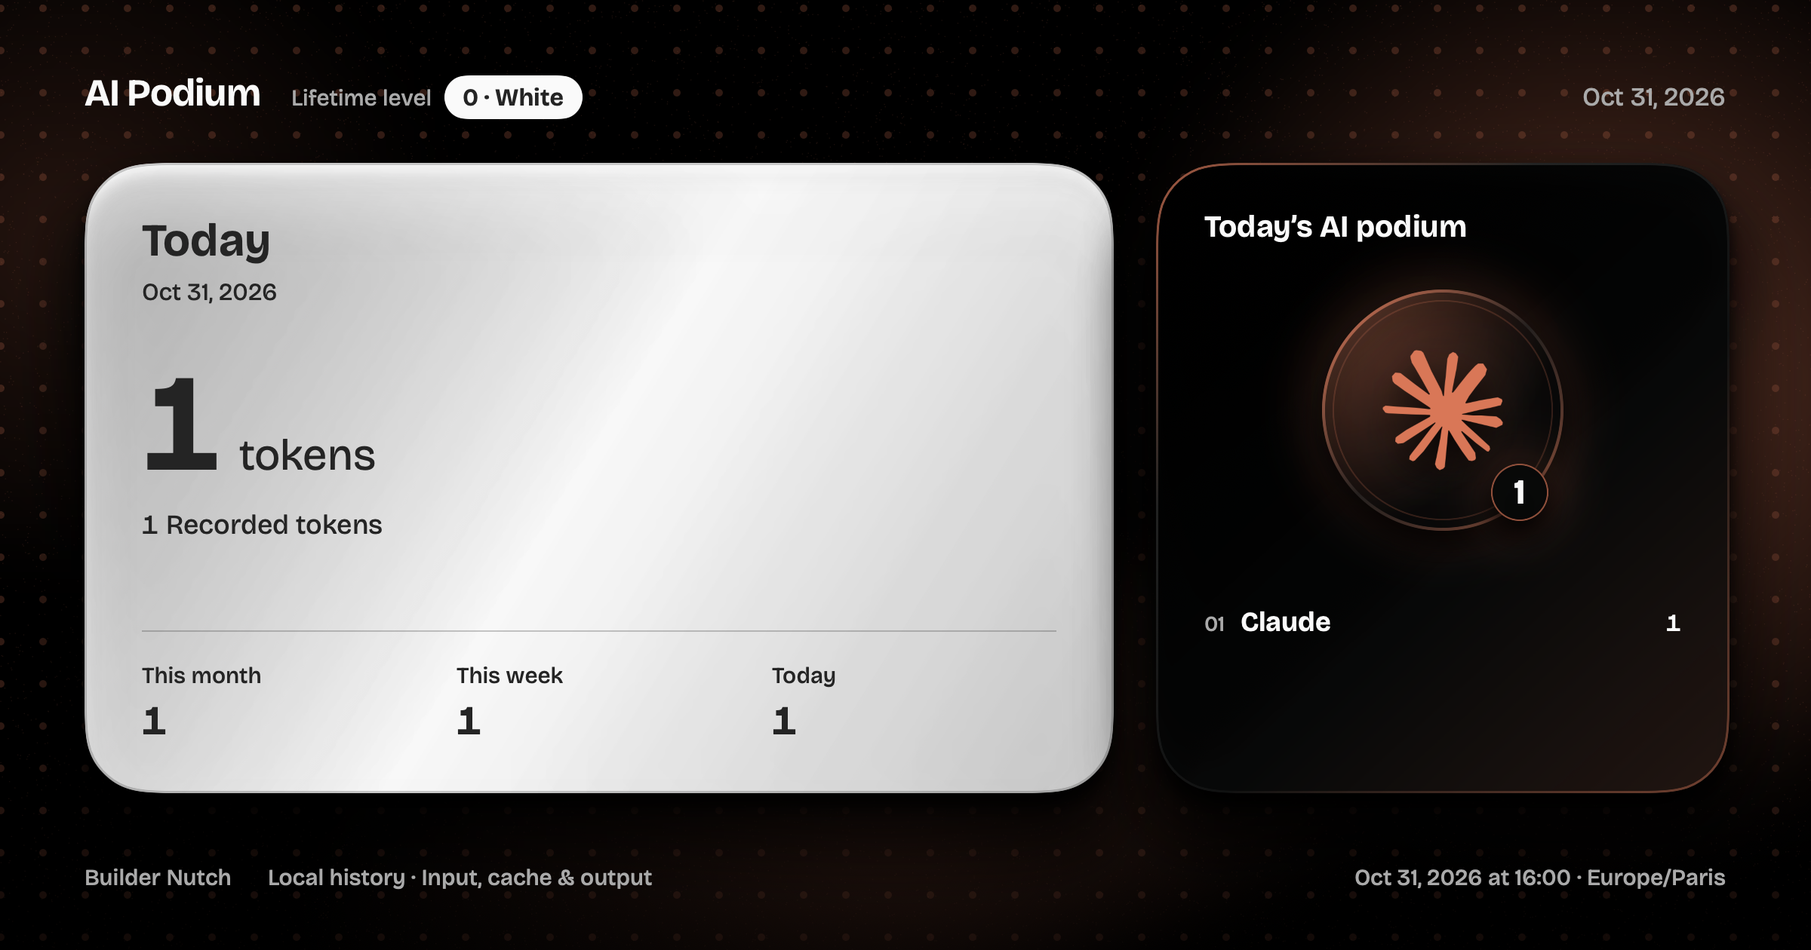
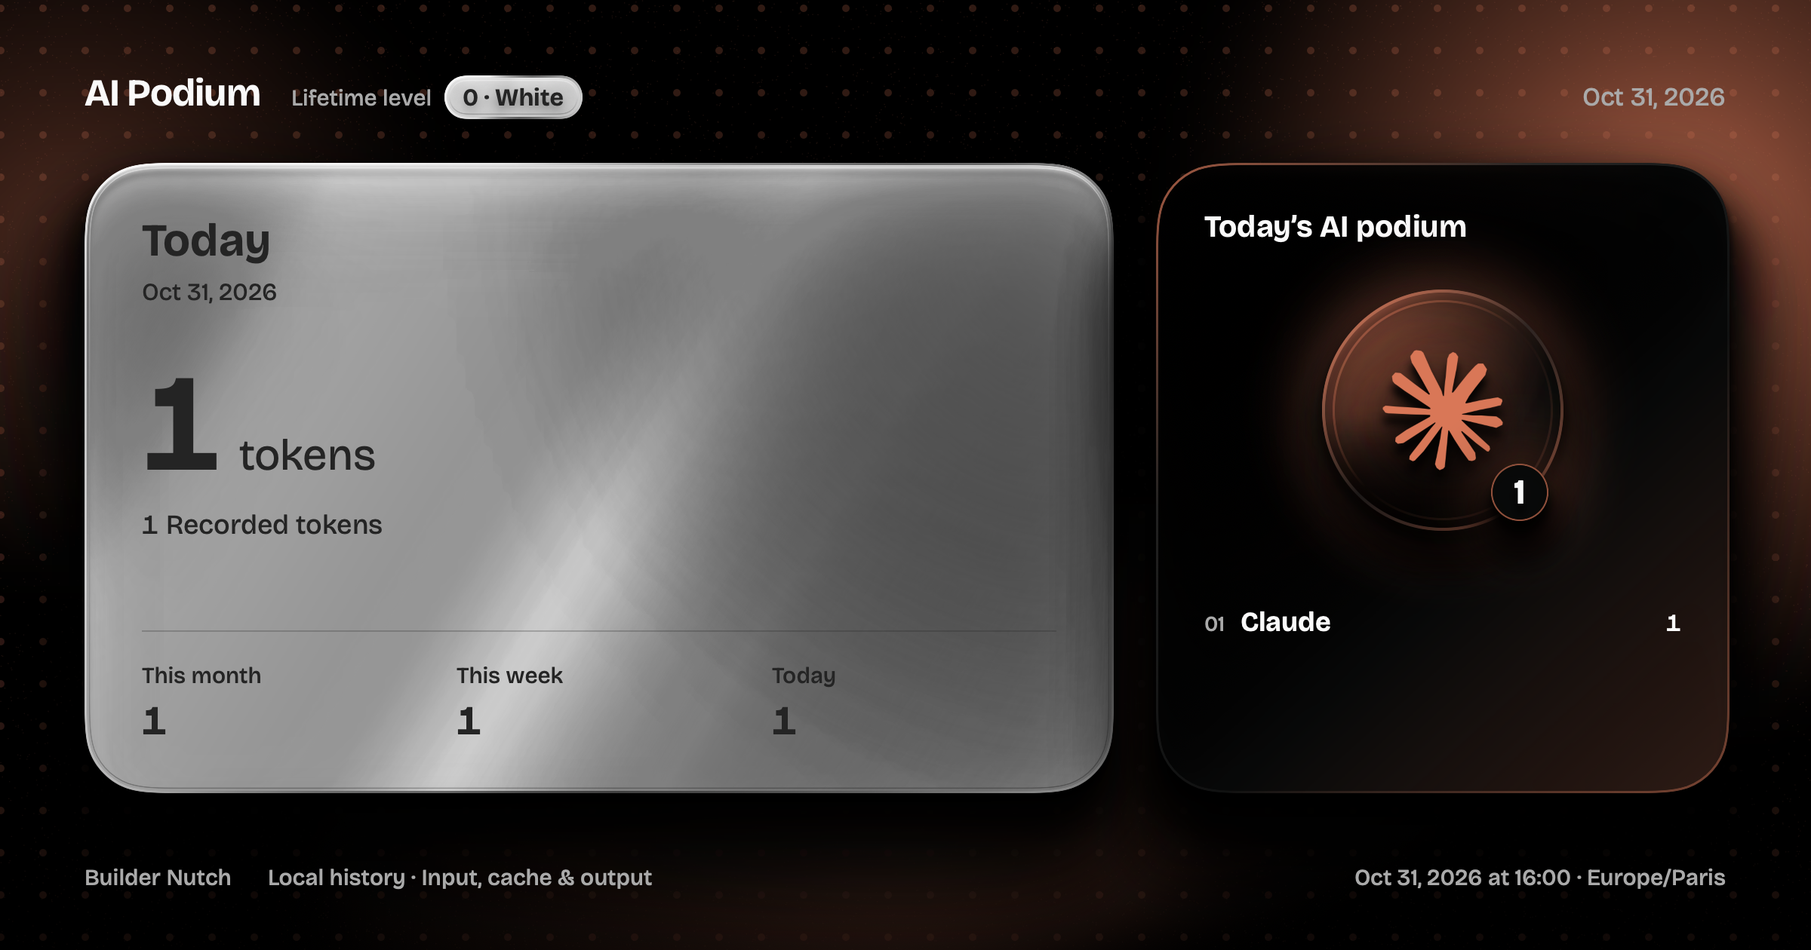
feat: give AI Podium richer material depth

diff --git a/Sources/Insights/UsageShareCard.swift b/Sources/Insights/UsageShareCard.swift
@@ -25,7 +25,8 @@ struct UsageShareCard: View {
                         .font(AppTheme.font(size: 16, weightValue: 650))
                         .padding(.horizontal, 12).padding(.vertical, 5)
                         .foregroundStyle(tier.foreground)
-                        .background(tier.surface, in: Capsule())
+                        .background(UsagePodiumFinish(tier: tier, radius: 100))
+                        .shadow(color: .black.opacity(0.5), radius: 4, y: 3)
                 }
                 Spacer()
                 Text(date(snapshot.today, template: "d MMM yyyy"))
@@ -107,18 +108,10 @@ struct UsageShareCard: View {
         .foregroundStyle(statisticsInk)
         .background {
             if let tier = snapshot.podiumTier {
-                RoundedRectangle(cornerRadius: 44, style: .continuous)
-                    .fill(tier.surface)
-                    .overlay(RoundedRectangle(cornerRadius: 44, style: .continuous)
-                        .fill(LinearGradient(stops: [
-                            .init(color: .white.opacity(tier.rawValue <= 4 ? 0.22 : 0.05), location: 0),
-                            .init(color: .clear, location: 0.48),
-                            .init(color: .black.opacity(0.08), location: 1)
-                        ], startPoint: .topLeading, endPoint: .bottomTrailing)))
-                    .overlay(RoundedRectangle(cornerRadius: 44, style: .continuous)
-                        .strokeBorder(tier.foreground.opacity(0.22), lineWidth: 1.5))
-                    .shadow(color: .black.opacity(0.8), radius: 5, x: 0, y: 9)
-                    .shadow(color: .black.opacity(0.7), radius: 24, x: 0, y: 24)
+                UsagePodiumFinish(tier: tier)
+                    .shadow(color: .black.opacity(0.9), radius: 2, x: 0, y: 5)
+                    .shadow(color: .black.opacity(0.75), radius: 12, x: 0, y: 16)
+                    .shadow(color: .black.opacity(0.65), radius: 32, x: 0, y: 30)
             } else {
                 plateSurface(radius: 44)
             }
@@ -185,12 +178,15 @@ struct UsageShareCard: View {
     private func medallion(_ entry: UsageShareProviderTotal, rank: Int, size: CGFloat) -> some View {
         ZStack {
             Circle().fill(UsageSharePalette.black)
-            Circle().fill(RadialGradient(colors: [accent.opacity(rank == 1 ? 0.42 : 0.17), .clear],
+            Circle().fill(RadialGradient(colors: [accent.opacity(rank == 1 ? 0.75 : 0.28), .clear],
                                          center: .topLeading, startRadius: 0, endRadius: size))
+            Circle().fill(LinearGradient(colors: [.clear, .black.opacity(0.75)],
+                                          startPoint: .center, endPoint: .bottom))
             Circle().strokeBorder(LinearGradient(colors: [accent.opacity(0.95), UsageSharePalette.edge.opacity(0.25),
                                                            accent.opacity(0.65)],
                                                  startPoint: .topLeading, endPoint: .bottomTrailing), lineWidth: 2)
-            Circle().strokeBorder(accent.opacity(0.20), lineWidth: 1).padding(7)
+            Circle().strokeBorder(LinearGradient(colors: [accent.opacity(0.65), .clear, accent.opacity(0.22)],
+                                                 startPoint: .topLeading, endPoint: .bottomTrailing), lineWidth: 1.5).padding(7)
             ProviderGlyphView(glyph: entry.provider == .claude ? .claude : .openai, size: size * 0.51)
                 .foregroundStyle(entry.provider == .claude ? UsageSharePalette.claude : UsageSharePalette.ink)
             Text(verbatim: "\(rank)")
@@ -201,8 +197,9 @@ struct UsageShareCard: View {
                 .offset(x: size * 0.32, y: size * 0.34)
         }
         .frame(width: size, height: size)
-        .shadow(color: accent.opacity(rank == 1 ? 0.2 : 0.06), radius: rank == 1 ? 20 : 8)
-        .shadow(color: .black.opacity(0.8), radius: 8, x: 0, y: 10)
+        .shadow(color: accent.opacity(rank == 1 ? 0.35 : 0.10), radius: rank == 1 ? 24 : 10)
+        .shadow(color: .black.opacity(0.95), radius: 3, x: 0, y: 7)
+        .shadow(color: .black.opacity(0.75), radius: 12, x: 0, y: 17)
     }
 
     private func rankingReading(_ entry: UsageShareProviderTotal, rank: Int) -> some View {
@@ -224,9 +221,11 @@ struct UsageShareCard: View {
         let shape = RoundedRectangle(cornerRadius: radius, style: .continuous)
         return ZStack {
             shape.fill(UsageSharePalette.black)
+            shape.fill(RadialGradient(colors: [accent.opacity(0.24), .clear],
+                                      center: .topLeading, startRadius: 0, endRadius: 340))
             shape.fill(LinearGradient(stops: [.init(color: .black, location: 0),
                                               .init(color: .black.opacity(0), location: 0.6),
-                                              .init(color: accent.opacity(0.13), location: 1)],
+                                              .init(color: accent.opacity(0.20), location: 1)],
                                       startPoint: .topLeading, endPoint: .bottomTrailing))
             shape.strokeBorder(LinearGradient(stops: [.init(color: accent.opacity(0.75), location: 0),
                                                        .init(color: UsageSharePalette.edge.opacity(0.38), location: 0.3),
@@ -234,8 +233,9 @@ struct UsageShareCard: View {
                                                        .init(color: accent.opacity(0.45), location: 1)],
                                                startPoint: .topLeading, endPoint: .bottomTrailing), lineWidth: 1.5)
         }
-        .shadow(color: .black.opacity(0.8), radius: 5, x: 0, y: 9)
-        .shadow(color: .black.opacity(0.7), radius: 24, x: 0, y: 24)
+        .shadow(color: .black.opacity(0.95), radius: 3, x: 0, y: 7)
+        .shadow(color: .black.opacity(0.8), radius: 14, x: 0, y: 20)
+        .shadow(color: .black.opacity(0.6), radius: 32, x: 0, y: 30)
     }
 
     private func exactReading(_ value: Int, availability: UsageMeasurementAvailability) -> some View {

diff --git a/Sources/Insights/UsagePodiumTier.swift b/Sources/Insights/UsagePodiumTier.swift
@@ -39,8 +39,50 @@ struct UsagePodiumBadge: View {
         .font(AppTheme.font(size: 11, weightValue: 650))
         .padding(.horizontal, 8).padding(.vertical, 4)
         .foregroundStyle(tier.foreground)
-        .background(tier.surface, in: Capsule())
-        .overlay(Capsule().strokeBorder(AppTheme.muted.opacity(0.45), lineWidth: 0.5))
+        .background(UsagePodiumFinish(tier: tier, radius: 100))
+        .shadow(color: .black.opacity(0.3), radius: 3, y: 2)
         .accessibilityElement(children: .combine)
+    }
+}
+
+/// One finish for the saved-level badge and exported plate. The base palette
+/// remains canonical; reflected light and recessed edges give it material depth.
+/// No animation or window material: the PNG and its preview are identical.
+struct UsagePodiumFinish: View {
+    let tier: UsagePodiumTier
+    var radius: CGFloat = 44
+    private var light: Bool { tier.rawValue <= 4 }
+    // Titanium is the lightest plate with light text. Its sheen comes from
+    // darker bands, preserving readable contrast across the whole surface.
+    private var reflection: Double { tier == .titanium ? 0.05 : 1 }
+
+    var body: some View {
+        let shape = RoundedRectangle(cornerRadius: radius, style: .continuous)
+        ZStack {
+            shape.fill(tier.surface)
+            if tier == .titanium { shape.fill(.black.opacity(0.18)) }
+            shape.fill(LinearGradient(stops: [
+                .init(color: .white.opacity(light ? 0.52 : 0.035 * reflection), location: 0),
+                .init(color: .white.opacity(light ? 0.10 : 0.015 * reflection), location: 0.18),
+                .init(color: .black.opacity(light ? 0.09 : 0.35), location: 0.44),
+                .init(color: .black.opacity(light ? 0.02 : 0.12), location: 0.52),
+                .init(color: .white.opacity(light ? 0.28 : 0.025 * reflection), location: 0.68),
+                .init(color: .black.opacity(light ? 0.10 : 0.50), location: 1)
+            ], startPoint: .topLeading, endPoint: .bottomTrailing))
+            // A broad soft reflection sits away from the reading column.
+            shape.fill(RadialGradient(colors: [.white.opacity(light ? 0.34 : 0.035 * reflection), .clear],
+                                      center: .topTrailing, startRadius: 0, endRadius: 420))
+            shape.strokeBorder(LinearGradient(stops: [
+                .init(color: .white.opacity(0.8), location: 0),
+                .init(color: .white.opacity(light ? 0.24 : 0.12), location: 0.30),
+                .init(color: .black.opacity(0.55), location: 0.58),
+                .init(color: .white.opacity(0.28), location: 1)
+            ], startPoint: .topLeading, endPoint: .bottomTrailing), lineWidth: 1.5)
+            shape.inset(by: 3).strokeBorder(LinearGradient(colors: [
+                .white.opacity(light ? 0.45 : 0.08), .clear, .black.opacity(0.28)
+            ], startPoint: .top, endPoint: .bottom), lineWidth: 0.7)
+        }
+        .accessibilityHidden(true)
+        .allowsHitTesting(false)
     }
 }

diff --git a/website/app/ai-podium.tsx b/website/app/ai-podium.tsx
@@ -1,4 +1,4 @@
-import { useState, type CSSProperties } from 'react';
+import { useEffect, useRef, useState, type CSSProperties } from 'react';
 import { ArrowDown, ArrowLeft, ArrowUpRight, Check, Download } from 'lucide-react';
 import { podiumTiers } from './podium-tiers';
 
@@ -7,9 +7,21 @@ const download = 'https://github.com/Connected-Mate/builder-nutch/releases/lates
 
 export default function AIPodium() {
   const [selected, setSelected] = useState(6);
+  const pickerRef = useRef<HTMLFieldSetElement>(null);
   const tier = podiumTiers[selected];
   const next = podiumTiers[selected + 1];
   const tierStyle = { '--tier-surface': tier.color, '--tier-ink': tier.ink } as CSSProperties;
+
+  useEffect(() => {
+    const picker = pickerRef.current;
+    const choice = picker?.querySelector<HTMLButtonElement>('[aria-pressed="true"]');
+    if (!picker || !choice) return;
+    const rail = picker.getBoundingClientRect(), item = choice.getBoundingClientRect();
+    if (item.left < rail.left || item.right > rail.right) {
+      // Scroll the level strip only; never move the page away from the artwork.
+      picker.scrollLeft += item.left - rail.left - (rail.width - item.width) / 2;
+    }
+  }, [selected]);
 
   return (
     <div className="ai-podium-page">
@@ -44,9 +56,9 @@ export default function AIPodium() {
             <h2 id="levels-title">From White to Black.</h2>
             <p>Nine levels. Based on all your saved tokens.</p>
           </div>
-          <fieldset className="tier-picker" aria-label="Explore token levels">
+          <fieldset ref={pickerRef} className="tier-picker" aria-label="Explore token levels">
             {podiumTiers.map((item, index) => (
-              <button key={item.id} type="button" className="tier-choice"
+              <button key={item.id} type="button" className="tier-choice" data-tier={item.id}
                 style={{ '--tier-surface': item.color, '--tier-ink': item.ink } as CSSProperties}
                 aria-pressed={selected === index} aria-controls="tier-preview"
                 onClick={() => setSelected(index)}>
@@ -56,7 +68,7 @@ export default function AIPodium() {
             ))}
           </fieldset>
           <div className="tier-preview-heading" id="tier-preview" aria-live="polite" aria-atomic="true">
-            <div className="tier-active" style={tierStyle}><span>{String(tier.level).padStart(2, '0')}</span>{tier.name}</div>
+            <div className="tier-active" data-tier={tier.id} style={tierStyle}><span>{String(tier.level).padStart(2, '0')}</span>{tier.name}</div>
             <p>{tier.level === 0 ? 'Unlocked with your first recorded token.' : `Reached at ${tier.threshold} lifetime tokens.`}
               {' '}{next ? `Next: ${next.name} at ${next.threshold}.` : 'The final level.'}</p>
             <span className="podium-example-label">Example preview</span>

diff --git a/website/app/ai-podium.css b/website/app/ai-podium.css
@@ -74,12 +74,12 @@
   border: 1px solid color-mix(in srgb, var(--tier-ink) 18%, transparent);
   background:
     linear-gradient(142deg, color-mix(in srgb, var(--tier-surface) 94%, var(--podium-stage-ink)), transparent 42%),
-    radial-gradient(circle at 82% 92%, color-mix(in srgb, var(--tier-ink) 8%, transparent), transparent 56%),
+    radial-gradient(circle at 82% 92%, color-mix(in srgb, var(--podium-stage) 4%, transparent), transparent 56%),
     var(--tier-surface);
   color: var(--tier-ink);
   box-shadow:
     inset 0 1px 0 color-mix(in srgb, var(--podium-stage-ink) 38%, transparent),
-    inset 0 -10px 18px color-mix(in srgb, var(--tier-ink) 13%, transparent),
+    inset 0 -10px 18px color-mix(in srgb, var(--podium-stage) 6%, transparent),
     0 8px 14px color-mix(in srgb, var(--podium-stage) 9%, transparent);
   transition: transform 200ms cubic-bezier(0.22, 1, 0.36, 1), box-shadow 200ms ease-out;
 }
@@ -100,7 +100,7 @@
   transform: translateY(-4px);
   box-shadow:
     inset 0 1px 0 color-mix(in srgb, var(--podium-stage-ink) 46%, transparent),
-    inset 0 -12px 20px color-mix(in srgb, var(--tier-ink) 15%, transparent),
+    inset 0 -12px 20px color-mix(in srgb, var(--podium-stage) 8%, transparent),
     0 14px 22px color-mix(in srgb, var(--podium-stage) 14%, transparent);
 }
 .tier-choice:hover::after { transform: translateX(105%); }
@@ -137,10 +137,17 @@
   font-weight: 600;
   box-shadow:
     inset 0 1px 0 color-mix(in srgb, var(--podium-stage-ink) 35%, transparent),
-    inset 0 -6px 12px color-mix(in srgb, var(--tier-ink) 12%, transparent),
+    inset 0 -6px 12px color-mix(in srgb, var(--podium-stage) 6%, transparent),
     0 6px 14px color-mix(in srgb, var(--podium-stage) 10%, transparent);
 }
 .tier-active span { font-variant-numeric: tabular-nums; font-size: 0.75rem; }
+/* The lightest dark metal uses shaded bands so its light lettering stays clear. */
+.tier-choice[data-tier='titanium'], .tier-active[data-tier='titanium'] {
+  background: linear-gradient(142deg, transparent, color-mix(in srgb, var(--podium-stage) 24%, transparent) 48%, transparent), var(--tier-surface);
+}
+.tier-choice[data-tier='titanium']::after {
+  background: linear-gradient(105deg, transparent 28%, color-mix(in srgb, var(--podium-stage) 12%, transparent) 48%, transparent 68%);
+}
 .tier-preview-heading p { font-size: 0.875rem; color: var(--muted); }
 .podium-example-label { margin-left: auto; font-size: 0.8125rem; white-space: nowrap; color: var(--muted); }
 .podium-showcase {

diff --git a/Sources/Insights/UsageStatisticsView.swift b/Sources/Insights/UsageStatisticsView.swift
@@ -45,6 +45,19 @@ struct UsageStatisticsView: View {
             details
         }
         .foregroundStyle(AppTheme.ink)
+        .padding(16)
+        .background {
+            RoundedRectangle(cornerRadius: 20, style: .continuous)
+                .fill(LinearGradient(colors: [AppTheme.soft, AppTheme.surface, .black.opacity(0.3)],
+                                     startPoint: .topLeading, endPoint: .bottomTrailing))
+                .overlay(RoundedRectangle(cornerRadius: 20, style: .continuous)
+                    .strokeBorder(LinearGradient(colors: [AppTheme.muted.opacity(0.35), AppTheme.line.opacity(0.4)],
+                                                 startPoint: .topLeading, endPoint: .bottomTrailing)))
+                .shadow(color: .black.opacity(0.22), radius: 2, y: 3)
+                .shadow(color: .black.opacity(0.22), radius: 14, y: 12)
+        }
+        .padding(.horizontal, -12)
+        .padding(.bottom, 12)
         .opacity(entered || reduceMotion ? 1 : 0)
         .offset(y: entered || reduceMotion ? 0 : 4)
         .onAppear { withAnimation(motion) { entered = true } }
@@ -226,9 +239,12 @@ struct UsageStatisticsView: View {
                             .padding(.horizontal, 1)
                     }
                     RoundedRectangle(cornerRadius: count <= 7 ? 3 : 1.5)
-                        .fill(active ? AppTheme.ink : AppTheme.muted)
+                        .fill(LinearGradient(colors: [active ? AppTheme.ink : AppTheme.muted,
+                                                       active ? AppTheme.muted : AppTheme.muted.opacity(0.55)],
+                                             startPoint: .top, endPoint: .bottom))
                         .frame(width: min(count <= 7 ? 24 : 10, max(1, geometry.size.width - 4)),
                                height: geometry.size.height * CGFloat(day.fraction(of: peak)))
+                        .shadow(color: .black.opacity(0.35), radius: 3, x: 1, y: 3)
                         .scaleEffect(y: entered || reduceMotion ? 1 : 0, anchor: .bottom)
                         .animation(reduceMotion ? nil : motion?.delay(Double(index) * 0.012), value: entered)
                 }

diff --git a/Tests/UsageShareTests.swift b/Tests/UsageShareTests.swift
@@ -212,6 +212,33 @@ final class UsageShareExportTests: XCTestCase {
         }
     }
 
+    func testTierFinishesKeepTextReadableAcrossTheReadingArea() throws {
+        func luminance(_ color: NSColor) -> Double {
+            let linear = [color.redComponent, color.greenComponent, color.blueComponent].map { component in
+                component <= 0.04045 ? component / 12.92 : pow((component + 0.055) / 1.055, 2.4)
+            }
+            return linear[0] * 0.2126 + linear[1] * 0.7152 + linear[2] * 0.0722
+        }
+        for tier in UsagePodiumTier.allCases {
+            let renderer = ImageRenderer(content: UsagePodiumFinish(tier: tier).frame(width: 682, height: 418))
+            let rep = NSBitmapImageRep(cgImage: try XCTUnwrap(renderer.cgImage))
+            let hex = tier.foregroundHex
+            // WCAG luminance is defined in sRGB, not the Mac's display/device
+            // profile (whose gamma can make the same pixels appear brighter).
+            let foreground = NSColor(srgbRed: CGFloat((hex >> 16) & 255) / 255,
+                                     green: CGFloat((hex >> 8) & 255) / 255,
+                                     blue: CGFloat(hex & 255) / 255, alpha: 1)
+            let ink = luminance(foreground)
+            for y in stride(from: 32, through: 386, by: 18) {
+                for x in stride(from: 38, through: 644, by: 24) {
+                    let background = luminance(try XCTUnwrap(rep.colorAt(x: x, y: y)?.usingColorSpace(.sRGB)))
+                    XCTAssertGreaterThanOrEqual((max(ink, background) + 0.05) / (min(ink, background) + 0.05),
+                                                4.5, "\(tier.nameKey) at \(x),\(y)")
+                }
+            }
+        }
+    }
+
     func testPNGDimensionsAndPrivateClipboardRoundTrip() throws {
         let now = ISO8601DateFormatter().date(from: "2026-09-15T10:00:00Z")!
         let report = UsageLedgerEngine.report(sessions: [], summary: UsageScanSummary(), days: 7, now: now,

diff --git a/Sources/Insights/UsageShareView.swift b/Sources/Insights/UsageShareView.swift
@@ -75,8 +75,11 @@ struct UsageShareView: View {
                     .scaleEffect(previewWidth / UsageShareCard.width, anchor: .topLeading)
                     .frame(width: previewWidth, height: previewWidth / ratio, alignment: .topLeading)
                     .clipShape(RoundedRectangle(cornerRadius: 12))
-                    .overlay(RoundedRectangle(cornerRadius: 12).stroke(AppTheme.muted.opacity(0.22)))
-                    .shadow(color: .black.opacity(0.65), radius: 24, y: 12)
+                    .overlay(RoundedRectangle(cornerRadius: 12).stroke(LinearGradient(
+                        colors: [AppTheme.muted.opacity(0.55), AppTheme.line.opacity(0.3)],
+                        startPoint: .topLeading, endPoint: .bottomTrailing)))
+                    .shadow(color: .black.opacity(0.75), radius: 3, y: 5)
+                    .shadow(color: .black.opacity(0.75), radius: 28, y: 20)
                     .frame(maxWidth: .infinity)
                     .accessibilityElement(children: .ignore)
                     .accessibilityLabel(Text("Token consumption image preview"))

diff --git a/Sources/Settings/ReleaseNotes.swift b/Sources/Settings/ReleaseNotes.swift
@@ -30,6 +30,9 @@ struct ReleaseNote: Equatable {
 /// `testTheCurrentVersionHasANote`.
 enum ReleaseNotes {
     static let all: [ReleaseNote] = [
+        ReleaseNote(version: "0.19.1", headline: "More depth. Your AI Podium.", changes: [
+            .init(title: "A richer finish", detail: "Sculpted reflections, deeper shadows and stronger provider lighting bring your AI Podium to life. Usage and level badges share the same refined finish.")
+        ]),
         ReleaseNote(version: "0.19.0", headline: "Your AI. Your next level.", changes: [
             .init(title: "Nine AI Podium levels", detail: "Your saved tokens take you from White to Black, through Silver, Gold and Platinum. Levels stay with your lifetime history."),
             .init(title: "A finish for your level", detail: "Your AI Podium image now carries your level and its color. Choose a period or project, then copy or save to share.")

diff --git a/Sources/Insights/UsageShareBackdrop.swift b/Sources/Insights/UsageShareBackdrop.swift
@@ -24,11 +24,11 @@ struct UsageShareBackdrop: View {
     var body: some View {
         ZStack {
             Color.black
-            light(width: 650, height: 610, opacity: 0.48)
-                .position(x: 1060, y: 255)
-            light(width: 800, height: 260, opacity: 0.25)
+            light(width: 650, height: 610, opacity: 0.82)
+                .position(x: 1110, y: 155)
+            light(width: 800, height: 260, opacity: 0.48)
                 .rotationEffect(.degrees(-16)).position(x: 590, y: 540)
-            light(width: 490, height: 400, opacity: 0.18)
+            light(width: 490, height: 400, opacity: 0.36)
                 .position(x: 45, y: 160)
             texture
             LinearGradient(stops: [.init(color: .clear, location: 0.74),

diff --git a/.impeccable.md b/.impeccable.md
@@ -78,3 +78,6 @@ The user wants an obvious rightmost share action with a miniature of the real im
 ## AI Podium lifetime levels — latest user direction
 
 Automatic posting to X is canceled. Manual export and optional daily reminder remain. AI Podium gets a dedicated GitHub Pages route /builder-nutch/ai-podium/. Existing lifetime saved-token milestones now have names and progressively darker finishes: White(0),Pearl(100K),Silver(1M),Gold(10M),Platinum(100M),Titanium(1B),Graphite(10B),Obsidian(100B),Black(1T). Palette #FAFAFA,#E7E7E7,#CDCDCD,#B9AD8C,#A2A6AA,#636970,#484B50,#24262A,#070808, light-tier text#242424/dark-tier text#FAFAFA. Explicit new token palette requested by user; no vivid yellow/purple/blue. Color the statistics plate and tier badges, keep provider-authentic lighting/podium separate. Lifetime level stays fixed through export period/project choices; unknown history does not invent a level. Website images must be native exports with synthetic fixture data.
+
+## Dimensional Podium refinement — latest user correction, 15 September 2026
+User finds levels, artwork, and website too faded. Strengthen reflections, edge depth, contact shadows, and provider-colored illumination; retain canonical tier hues and lifetime thresholds. Material sheen is neutral reflected light on the plate, not a new colored background. Statistics gets one sculpted reading surface. Bricolage and compact controls remain. Manual sharing only; automatic X posting remains cancelled.
